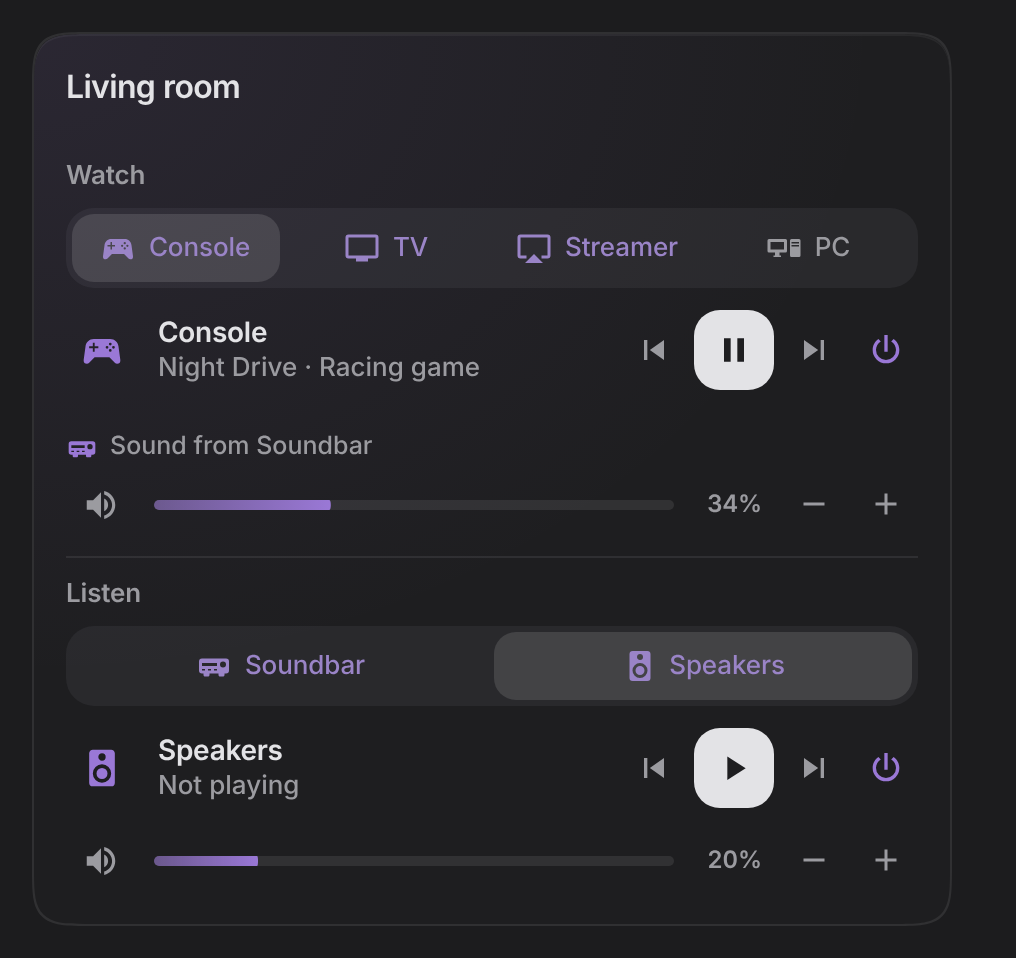
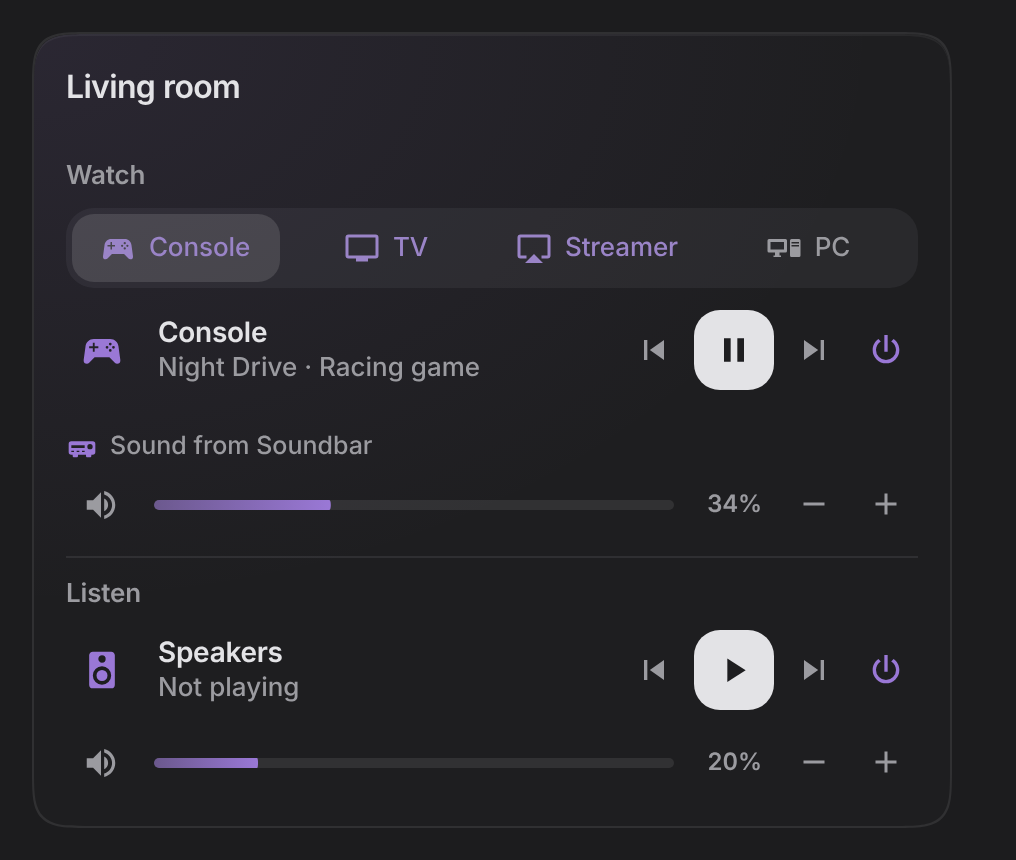
Media: the screen owns the volume; one box, one bar (0.20.2)
The TV is the volume of everything watched on it. When it sends its sound to the soundbar named in video_output (an LG says so; another TV while the soundbar is on), the bar is the soundbar's own and the soundbar leaves Listen while the TV is on. Nothing is guessed: without video_output the TV plays through itself. New screen option, for the card or a source.

diff --git a/dist/savvy-cards.js b/dist/savvy-cards.js
@@ -15331,7 +15331,7 @@ class SavvyMediaCard extends SavvyCard {
 
   _measure() {
     const slide = (box, idx, x, w) => {
-      const sel = box?.querySelectorAll(".seg")[idx || 0];
+      const sel = box?.querySelectorAll(".seg:not([hidden])")[idx || 0];
       if (!sel) return;
       const first = this._first || w.x === 0;
       x[first ? "snap" : "to"](sel.offsetLeft);
@@ -15705,7 +15705,7 @@ class SavvyMediaCard extends SavvyCard {
     el.nowVol.hidden = !owner;
     if (owner) {
       // a source that plays through another box says which, so the volume reads as that box's
-      const choice = this._soundChoice(v);
+      const screen = this._screenOf(v) || v, choice = this._soundChoice(screen);
       let via = el.nowVol.querySelector(".via");
       if (!via || (via.tagName === "BUTTON") !== !!choice) {
         via?.remove();
@@ -15718,9 +15718,11 @@ class SavvyMediaCard extends SavvyCard {
       const through = owner.entity !== v.entity;
       via.hidden = this._compact || (!through && !choice);
       if (!via.hidden) {
-        // a TV playing through itself names its output; one sending it on names the box it goes to
-        const name = through ? owner.name || shortName(this._hass, owner.entity, this._config.area) : choice.current?.label || "TV";
-        const icon = through ? this._playerIcon(owner, this._hass.states[owner.entity]) : choice.current?.icon || "mdi:speaker";
+        // the sound goes out to a soundbar: that box; the TV plays through itself and can say how: its output
+        // (TV speaker, headphones); otherwise the box whose volume this is
+        const out = owner.entity !== screen.entity, named = !out && choice?.current;
+        const name = named ? choice.current.label : owner.name || shortName(this._hass, owner.entity, this._config.area);
+        const icon = named ? choice.current.icon || "mdi:speaker" : this._playerIcon(owner, this._hass.states[owner.entity]);
         attr(via.querySelector("ha-icon"), "icon", icon);
         text(via.querySelector("span"), `Sound from ${name}`);
         if (choice) attr(via, "aria-label", `Sound output: ${choice.current?.label || "unknown"}. Change`);
@@ -15770,7 +15772,9 @@ class SavvyMediaCard extends SavvyCard {
 
   _outputs() {
     const el = this._el, c = this._config;
-    el.audioBand.hidden = !c.audio.length;
+    const busy = this._busyOutputs(), free = c.audio.filter((a) => !busy.has(a.entity));
+    this._listen = free;
+    el.audioBand.hidden = !free.length;
     const shown = this._speakerPicker();
     for (const cfg of c.audio) {
       const key = slug(cfg.entity);
@@ -15795,17 +15799,14 @@ class SavvyMediaCard extends SavvyCard {
   // Several speakers share one row, picked the way the video sources are: the pick while it's
   // sensible, else whatever is playing. One speaker needs no picker.
   _speakerPicker() {
-    const c = this._config, el = this._el, list = c.audio;
+    const el = this._el, list = this._listen || this._config.audio;
     if (!list.length) { this._spkActive = null; return null; }
     const live = list.filter((a) => ACTIVE.has(this._hass.states[a.entity]?.state));
     const sig = live.map((a) => a.entity).join("|");
     if (this._spkSig === undefined) this._spkSig = sig;
     if (sig !== this._spkSig) { this._spkSig = sig; if (sig) this._spkPicked = null; }
     if (this._spkPicked && !list.some((a) => a.entity === this._spkPicked)) this._spkPicked = null;
-    // a box that is busy being the picked source's sound comes last: Listen opens on a speaker of its own
-    const out = this._active && this._isOn(this._active) ? this._soundOutput(this._active) : null;
-    const order = out ? [...list.filter((a) => a.entity !== out), ...list.filter((a) => a.entity === out)] : list;
-    const active = (this._spkPicked && list.find((a) => a.entity === this._spkPicked)) || live[0] || order.find((a) => this._isOn(a)) || order[0];
+    const active = (this._spkPicked && list.find((a) => a.entity === this._spkPicked)) || live[0] || list.find((a) => this._isOn(a)) || list[0];
     this._spkActive = active;
     this._spkIdx = list.indexOf(active);
     el.speakers.hidden = list.length < 2;
@@ -15818,11 +15819,14 @@ class SavvyMediaCard extends SavvyCard {
           this._pressable(seg, { onTap: () => this._pickSpeaker(a), onHold: () => moreInfo(this, a.entity), haptic: null }, 0.08);
         }
         attr(seg.querySelector("ha-icon"), "icon", this._playerIcon(a, st));
-        text(seg.querySelector("span"), a.name || shortName(this._hass, a.entity, c.area));
+        text(seg.querySelector("span"), a.name || shortName(this._hass, a.entity, this._config.area));
         attr(seg, "data-sel", a === active);
         attr(seg, "data-live", this._isOn(a));
         attr(seg, "aria-pressed", a === active ? "true" : "false");
       });
+      // a speaker busy being a screen's sound is out of the picker until the screen lets it go
+      const keep = new Set(list.map((a) => a.entity));
+      for (const [id, seg] of el.speakers.__rows || []) seg.hidden = !keep.has(id);
       this._measure();
     }
     return active;
@@ -15954,10 +15958,10 @@ class SavvyMediaCard extends SavvyCard {
   }
 
   _soundMenu(anchor) {
-    const v = this._active, choice = v && this._soundChoice(v);
+    const v = this._active && (this._screenOf(this._active) || this._active), choice = v && this._soundChoice(v);
     if (!choice) return;
     this._soundPicker = this._soundPicker || new ModePicker(this, { onPick: (id, value) => {
-      const c = this._active && this._soundChoice(this._active);
+      const scr = this._active && (this._screenOf(this._active) || this._active), c = scr && this._soundChoice(scr);
       if (c && value !== c.current?.value) c.set(value);
     } });
     // the popup sits outside the card, so it gets the accent as a colour, not as the card's variable
@@ -15969,16 +15973,49 @@ class SavvyMediaCard extends SavvyCard {
   // Where a source's sound comes out; nothing declared means the box plays its own.
   _soundOutput(cfg) { return (cfg.output !== undefined ? cfg.output : this._config.video_output) || null; }
 
-  // Whose volume belongs under the picked source: the box its sound comes out of, else its own.
+  // The screen a source plays on: its own `screen`, the card's `screen`, else the one TV among the
+  // sources. The screen owns the volume of everything watched on it (an Apple TV or a console has none).
+  _screenOf(cfg) {
+    const c = this._config, id = cfg.screen || c.screen;
+    if (id) return c.video.find((v) => v.entity === id) || { entity: id };
+    const tvs = c.video.filter((v) => this._hass.states[v.entity]?.attributes.device_class === "tv");
+    return tvs.length === 1 ? tvs[0] : null;
+  }
+
+  // A screen's sound goes out to its configured output (a soundbar over eARC) when the TV says so (an
+  // LG names its sound output), or, for a TV that doesn't say, while that output is on. Never guessed:
+  // without an `output` / `video_output` in the config the TV plays through itself.
+  _externalOut(screen) {
+    const out = this._soundOutput(screen);
+    if (!out || out === screen.entity) return null;
+    const choice = this._soundChoice(screen);
+    if (choice?.current) return choice.current.own ? null : out;
+    return this._isOn({ entity: out, ...(this._config.audio.find((a) => a.entity === out) || {}) }) ? out : null;
+  }
+
+  // Whose volume belongs under the picked source: its screen's, or the soundbar's when the screen's
+  // sound goes there. One bar for one box: that soundbar leaves Listen meanwhile (_busyOutputs).
   _volumeOwner(cfg) {
     if (cfg.volume === false) return null;
-    if (this._soundChoice(cfg)?.current?.own) return cfg;      // the TV is playing through itself right now
-    const out = this._soundOutput(cfg);
-    if (!out) return cfg;
+    const screen = this._screenOf(cfg) || cfg;
+    const out = this._externalOut(screen);
+    if (!out) return screen;
     const listed = this._config.audio.find((a) => a.entity === out);
-    if (listed) return listed;      // the sound output's volume belongs with what you watch, even when it is a speaker too
+    if (listed) return listed;
     const named = this._config.video.find((v) => v.entity === out);
     return named ? { ...named } : { entity: out };
+  }
+
+  // The speakers busy being a screen's sound right now: their bar is under that screen, not in Listen.
+  _busyOutputs() {
+    const busy = new Set();
+    const screens = new Set(this._config.video.map((v) => this._screenOf(v) || v));
+    for (const screen of screens) {
+      if (!this._isOn(screen)) continue;
+      const out = this._externalOut(screen);
+      if (out) busy.add(out);
+    }
+    return busy;
   }
 
   _chips() {
@@ -16108,7 +16145,8 @@ const playerList = (name, label, helper) => ({ name, label, helper, type: "list"
     { name: "entity", label: "Player", selector: { entity: { domain: "media_player" } } },
     { type: "grid", name: "", schema: [{ name: "name", label: "Name", selector: { text: {} } }, { name: "icon", label: "Icon", selector: { icon: {} } }] },
     { name: "power", label: "Power switch", helper: "A switch that powers it, when the player can't turn itself on.", selector: { entity: { domain: ["switch", "input_boolean"] } } },
-    { name: "output", label: "Sound output", helper: "Where this source's sound comes out. Empty: it plays through itself. Overrides the card's output for all sources.", selector: { entity: { domain: "media_player" } } },
+    { name: "screen", label: "Screen", helper: "The TV this source plays on, when the room has more than one.", selector: { entity: { domain: "media_player" } } },
+    { name: "output", label: "Sound output", helper: "For a screen: the soundbar it sends its sound to. Overrides the card's output.", selector: { entity: { domain: "media_player" } } },
     { name: "sound_select", label: "Sound output list", helper: "A select entity that switches where the TV's sound goes. An LG TV needs none: its outputs are found.", selector: { entity: { domain: ["select", "input_select"] } } },
     { name: "volume", label: "Volume helper", helper: "A helper that is the real volume, when the player's own isn't.", selector: { entity: { domain: ["input_number", "number"] } } },
     { name: "artwork", label: "Artwork when", helper: "A binary sensor that says the artwork is worth showing.", selector: { entity: { domain: "binary_sensor" } } },
@@ -16120,7 +16158,8 @@ const EDITOR = defineEditor("savvy-media-card", (hass, c) => [
   S.titleLink("name"),
   playerList("video", "Video sources", "Empty: the area's players (not its speakers)."),
   playerList("audio", "Speakers", "The room's speakers: each with its transport, volume and power; two or more get a picker. Empty: the area's speakers and receivers."),
-  { name: "video_output", label: "Sound output for all sources", helper: "The speaker, receiver or soundbar every video source plays through. Its volume sits under the picked source.", selector: { entity: { domain: "media_player" } } },
+  { name: "screen", label: "Screen", helper: "The TV the sources play on: it owns their volume. Empty: the one source that is a TV.", selector: { entity: { domain: "media_player" } } },
+  { name: "video_output", label: "Screen's sound output", helper: "The soundbar or receiver the screen sends its sound to (eARC). While it does, the bar is the soundbar's and the soundbar leaves Listen. Empty: the TV plays through itself.", selector: { entity: { domain: "media_player" } } },
   S.grid(S.bool("artwork", "Show artwork", null, true), S.bool("volume_buttons", "Volume buttons", null, true)),
   S.grid(S.number("volume_step", "Volume step", 1, 25, 1, "%"), S.number("artwork_max_height", "Artwork height", 80, 800, 10, "px")),
   { type: "expandable", name: "labels", title: "Captions", schema: [S.text("video", "Video caption"), S.text("audio", "Speaker caption")] },

diff --git a/src/cards/media.js b/src/cards/media.js
@@ -313,7 +313,7 @@ class SavvyMediaCard extends SavvyCard {
 
   _measure() {
     const slide = (box, idx, x, w) => {
-      const sel = box?.querySelectorAll(".seg")[idx || 0];
+      const sel = box?.querySelectorAll(".seg:not([hidden])")[idx || 0];
       if (!sel) return;
       const first = this._first || w.x === 0;
       x[first ? "snap" : "to"](sel.offsetLeft);
@@ -687,7 +687,7 @@ class SavvyMediaCard extends SavvyCard {
     el.nowVol.hidden = !owner;
     if (owner) {
       // a source that plays through another box says which, so the volume reads as that box's
-      const choice = this._soundChoice(v);
+      const screen = this._screenOf(v) || v, choice = this._soundChoice(screen);
       let via = el.nowVol.querySelector(".via");
       if (!via || (via.tagName === "BUTTON") !== !!choice) {
         via?.remove();
@@ -700,9 +700,11 @@ class SavvyMediaCard extends SavvyCard {
       const through = owner.entity !== v.entity;
       via.hidden = this._compact || (!through && !choice);
       if (!via.hidden) {
-        // a TV playing through itself names its output; one sending it on names the box it goes to
-        const name = through ? owner.name || shortName(this._hass, owner.entity, this._config.area) : choice.current?.label || "TV";
-        const icon = through ? this._playerIcon(owner, this._hass.states[owner.entity]) : choice.current?.icon || "mdi:speaker";
+        // the sound goes out to a soundbar: that box; the TV plays through itself and can say how: its output
+        // (TV speaker, headphones); otherwise the box whose volume this is
+        const out = owner.entity !== screen.entity, named = !out && choice?.current;
+        const name = named ? choice.current.label : owner.name || shortName(this._hass, owner.entity, this._config.area);
+        const icon = named ? choice.current.icon || "mdi:speaker" : this._playerIcon(owner, this._hass.states[owner.entity]);
         attr(via.querySelector("ha-icon"), "icon", icon);
         text(via.querySelector("span"), `Sound from ${name}`);
         if (choice) attr(via, "aria-label", `Sound output: ${choice.current?.label || "unknown"}. Change`);
@@ -752,7 +754,9 @@ class SavvyMediaCard extends SavvyCard {
 
   _outputs() {
     const el = this._el, c = this._config;
-    el.audioBand.hidden = !c.audio.length;
+    const busy = this._busyOutputs(), free = c.audio.filter((a) => !busy.has(a.entity));
+    this._listen = free;
+    el.audioBand.hidden = !free.length;
     const shown = this._speakerPicker();
     for (const cfg of c.audio) {
       const key = slug(cfg.entity);
@@ -777,17 +781,14 @@ class SavvyMediaCard extends SavvyCard {
   // Several speakers share one row, picked the way the video sources are: the pick while it's
   // sensible, else whatever is playing. One speaker needs no picker.
   _speakerPicker() {
-    const c = this._config, el = this._el, list = c.audio;
+    const el = this._el, list = this._listen || this._config.audio;
     if (!list.length) { this._spkActive = null; return null; }
     const live = list.filter((a) => ACTIVE.has(this._hass.states[a.entity]?.state));
     const sig = live.map((a) => a.entity).join("|");
     if (this._spkSig === undefined) this._spkSig = sig;
     if (sig !== this._spkSig) { this._spkSig = sig; if (sig) this._spkPicked = null; }
     if (this._spkPicked && !list.some((a) => a.entity === this._spkPicked)) this._spkPicked = null;
-    // a box that is busy being the picked source's sound comes last: Listen opens on a speaker of its own
-    const out = this._active && this._isOn(this._active) ? this._soundOutput(this._active) : null;
-    const order = out ? [...list.filter((a) => a.entity !== out), ...list.filter((a) => a.entity === out)] : list;
-    const active = (this._spkPicked && list.find((a) => a.entity === this._spkPicked)) || live[0] || order.find((a) => this._isOn(a)) || order[0];
+    const active = (this._spkPicked && list.find((a) => a.entity === this._spkPicked)) || live[0] || list.find((a) => this._isOn(a)) || list[0];
     this._spkActive = active;
     this._spkIdx = list.indexOf(active);
     el.speakers.hidden = list.length < 2;
@@ -800,11 +801,14 @@ class SavvyMediaCard extends SavvyCard {
           this._pressable(seg, { onTap: () => this._pickSpeaker(a), onHold: () => moreInfo(this, a.entity), haptic: null }, 0.08);
         }
         attr(seg.querySelector("ha-icon"), "icon", this._playerIcon(a, st));
-        text(seg.querySelector("span"), a.name || shortName(this._hass, a.entity, c.area));
+        text(seg.querySelector("span"), a.name || shortName(this._hass, a.entity, this._config.area));
         attr(seg, "data-sel", a === active);
         attr(seg, "data-live", this._isOn(a));
         attr(seg, "aria-pressed", a === active ? "true" : "false");
       });
+      // a speaker busy being a screen's sound is out of the picker until the screen lets it go
+      const keep = new Set(list.map((a) => a.entity));
+      for (const [id, seg] of el.speakers.__rows || []) seg.hidden = !keep.has(id);
       this._measure();
     }
     return active;
@@ -936,10 +940,10 @@ class SavvyMediaCard extends SavvyCard {
   }
 
   _soundMenu(anchor) {
-    const v = this._active, choice = v && this._soundChoice(v);
+    const v = this._active && (this._screenOf(this._active) || this._active), choice = v && this._soundChoice(v);
     if (!choice) return;
     this._soundPicker = this._soundPicker || new ModePicker(this, { onPick: (id, value) => {
-      const c = this._active && this._soundChoice(this._active);
+      const scr = this._active && (this._screenOf(this._active) || this._active), c = scr && this._soundChoice(scr);
       if (c && value !== c.current?.value) c.set(value);
     } });
     // the popup sits outside the card, so it gets the accent as a colour, not as the card's variable
@@ -951,16 +955,49 @@ class SavvyMediaCard extends SavvyCard {
   // Where a source's sound comes out; nothing declared means the box plays its own.
   _soundOutput(cfg) { return (cfg.output !== undefined ? cfg.output : this._config.video_output) || null; }
 
-  // Whose volume belongs under the picked source: the box its sound comes out of, else its own.
+  // The screen a source plays on: its own `screen`, the card's `screen`, else the one TV among the
+  // sources. The screen owns the volume of everything watched on it (an Apple TV or a console has none).
+  _screenOf(cfg) {
+    const c = this._config, id = cfg.screen || c.screen;
+    if (id) return c.video.find((v) => v.entity === id) || { entity: id };
+    const tvs = c.video.filter((v) => this._hass.states[v.entity]?.attributes.device_class === "tv");
+    return tvs.length === 1 ? tvs[0] : null;
+  }
+
+  // A screen's sound goes out to its configured output (a soundbar over eARC) when the TV says so (an
+  // LG names its sound output), or, for a TV that doesn't say, while that output is on. Never guessed:
+  // without an `output` / `video_output` in the config the TV plays through itself.
+  _externalOut(screen) {
+    const out = this._soundOutput(screen);
+    if (!out || out === screen.entity) return null;
+    const choice = this._soundChoice(screen);
+    if (choice?.current) return choice.current.own ? null : out;
+    return this._isOn({ entity: out, ...(this._config.audio.find((a) => a.entity === out) || {}) }) ? out : null;
+  }
+
+  // Whose volume belongs under the picked source: its screen's, or the soundbar's when the screen's
+  // sound goes there. One bar for one box: that soundbar leaves Listen meanwhile (_busyOutputs).
   _volumeOwner(cfg) {
     if (cfg.volume === false) return null;
-    if (this._soundChoice(cfg)?.current?.own) return cfg;      // the TV is playing through itself right now
-    const out = this._soundOutput(cfg);
-    if (!out) return cfg;
+    const screen = this._screenOf(cfg) || cfg;
+    const out = this._externalOut(screen);
+    if (!out) return screen;
     const listed = this._config.audio.find((a) => a.entity === out);
-    if (listed) return listed;      // the sound output's volume belongs with what you watch, even when it is a speaker too
+    if (listed) return listed;
     const named = this._config.video.find((v) => v.entity === out);
     return named ? { ...named } : { entity: out };
+  }
+
+  // The speakers busy being a screen's sound right now: their bar is under that screen, not in Listen.
+  _busyOutputs() {
+    const busy = new Set();
+    const screens = new Set(this._config.video.map((v) => this._screenOf(v) || v));
+    for (const screen of screens) {
+      if (!this._isOn(screen)) continue;
+      const out = this._externalOut(screen);
+      if (out) busy.add(out);
+    }
+    return busy;
   }
 
   _chips() {
@@ -1090,7 +1127,8 @@ const playerList = (name, label, helper) => ({ name, label, helper, type: "list"
     { name: "entity", label: "Player", selector: { entity: { domain: "media_player" } } },
     { type: "grid", name: "", schema: [{ name: "name", label: "Name", selector: { text: {} } }, { name: "icon", label: "Icon", selector: { icon: {} } }] },
     { name: "power", label: "Power switch", helper: "A switch that powers it, when the player can't turn itself on.", selector: { entity: { domain: ["switch", "input_boolean"] } } },
-    { name: "output", label: "Sound output", helper: "Where this source's sound comes out. Empty: it plays through itself. Overrides the card's output for all sources.", selector: { entity: { domain: "media_player" } } },
+    { name: "screen", label: "Screen", helper: "The TV this source plays on, when the room has more than one.", selector: { entity: { domain: "media_player" } } },
+    { name: "output", label: "Sound output", helper: "For a screen: the soundbar it sends its sound to. Overrides the card's output.", selector: { entity: { domain: "media_player" } } },
     { name: "sound_select", label: "Sound output list", helper: "A select entity that switches where the TV's sound goes. An LG TV needs none: its outputs are found.", selector: { entity: { domain: ["select", "input_select"] } } },
     { name: "volume", label: "Volume helper", helper: "A helper that is the real volume, when the player's own isn't.", selector: { entity: { domain: ["input_number", "number"] } } },
     { name: "artwork", label: "Artwork when", helper: "A binary sensor that says the artwork is worth showing.", selector: { entity: { domain: "binary_sensor" } } },
@@ -1102,7 +1140,8 @@ const EDITOR = defineEditor("savvy-media-card", (hass, c) => [
   S.titleLink("name"),
   playerList("video", "Video sources", "Empty: the area's players (not its speakers)."),
   playerList("audio", "Speakers", "The room's speakers: each with its transport, volume and power; two or more get a picker. Empty: the area's speakers and receivers."),
-  { name: "video_output", label: "Sound output for all sources", helper: "The speaker, receiver or soundbar every video source plays through. Its volume sits under the picked source.", selector: { entity: { domain: "media_player" } } },
+  { name: "screen", label: "Screen", helper: "The TV the sources play on: it owns their volume. Empty: the one source that is a TV.", selector: { entity: { domain: "media_player" } } },
+  { name: "video_output", label: "Screen's sound output", helper: "The soundbar or receiver the screen sends its sound to (eARC). While it does, the bar is the soundbar's and the soundbar leaves Listen. Empty: the TV plays through itself.", selector: { entity: { domain: "media_player" } } },
   S.grid(S.bool("artwork", "Show artwork", null, true), S.bool("volume_buttons", "Volume buttons", null, true)),
   S.grid(S.number("volume_step", "Volume step", 1, 25, 1, "%"), S.number("artwork_max_height", "Artwork height", 80, 800, 10, "px")),
   { type: "expandable", name: "labels", title: "Captions", schema: [S.text("video", "Video caption"), S.text("audio", "Speaker caption")] },

diff --git a/README.md b/README.md
@@ -655,11 +655,13 @@ chips:
 
 **One card for everything that plays in a room.** Pick the video source (TV, console, streamer, PC) with
 one tap, and the card shows what it is playing and its controls. Each source can send its sound to the
-output you choose: here the TV, console and streamer play through the soundbar, and the PC through the
-speakers. The volume under the picked source is its sound output's ("Sound from Soundbar"), so you turn the TV
-up where you watch it. The speakers sit under it, each with its own volume; with more than one speaker they
-get a picker of their own, like the sources. A soundbar can be both: the TV's sound output and a speaker you
-play music on. With both kinds on the card, the bands are captioned Watch and Listen.
+output you choose. The screen (the TV) owns the volume of everything watched on it: an Apple TV or a console
+has no bar of its own. When the TV sends its sound to the soundbar you name in `video_output` (eARC), the bar
+under the picked source is the soundbar's own, with its real level ("Sound from Soundbar"); when the TV plays
+through its own speakers, it is the TV's. A soundbar that is the TV's sound leaves Listen while the TV is on,
+so one box never shows two bars; with the TV off it is back in Listen, for music on its own. Nothing is
+guessed: without `video_output` the TV plays through itself. Speakers sit under the screen, each with its own
+volume, and two or more get a picker. With both kinds on the card, the bands are captioned Watch and Listen.
 
 <picture><source media="(prefers-color-scheme: light)" srcset="docs/images/media-light.png"><img src="docs/images/media-dark.png" width="460" alt="Savvy media card with artwork"></picture>
 
@@ -678,9 +680,10 @@ presets, text to speech and an alarm clock. Volume moves only on a sideways drag
 | `area` | area | **required** (or `video` / `audio`) | Speakers and receivers become outputs; TVs and the rest become sources. |
 | `name` | string | the area's | Title. |
 | `layout` | `full` or `compact` | `full` | `compact`: one row with what is playing, its transport and the volume. |
-| `video` | list | found | The video sources in the picker (TVs, consoles, streamers, PCs): `{ entity, name, icon, power, output, volume, artwork, sound_select, sound_outputs }`. `power`: a switch that turns it on. `output`: the speaker its sound comes out of (leave empty and it plays through itself); it wins over `video_output`. `volume`: a helper that holds its real volume. `artwork`: a binary sensor that says its artwork is worth showing. `sound_select`: a select entity that switches where its sound goes (an LG TV needs none, see below). `sound_outputs`: the LG outputs to list, or `false` for none. |
+| `video` | list | found | The video sources in the picker (TVs, consoles, streamers, PCs): `{ entity, name, icon, power, screen, output, volume, artwork, sound_select, sound_outputs }`. `power`: a switch that turns it on. `screen`: the TV it plays on, in a room with two. `output`: on a screen, the soundbar it sends its sound to; it wins over `video_output`. `volume`: a helper that holds its real volume. `artwork`: a binary sensor that says its artwork is worth showing. `sound_select`: a select entity that switches where its sound goes (an LG TV needs none, see below). `sound_outputs`: the LG outputs to list, or `false` for none. |
 | `audio` | list | found | The speakers, under the sources with their own transport and volume; two or more get a picker. Same item format as `video`. |
-| `video_output` | entity | none | The one speaker, receiver or soundbar that every video source plays through, unless a source sets its own `output`. Its volume sits under the picked source, even when it is also listed in `audio`. |
+| `screen` | entity | the one TV among `video` | The TV the video sources play on. It owns their volume. A source's own `screen` wins (a room with two TVs). |
+| `video_output` | entity | none | The soundbar or receiver the screen sends its sound to (eARC). While the TV sends its sound there (an LG says so; another TV while the soundbar is on), the bar is the soundbar's, and the soundbar leaves Listen. Empty: the TV plays through itself. |
 | `presets` | chips | none | Stations and playlists. |
 | `tts` | object | none | `{ action, data, placeholder }`: a text box. `$MSG` in `data` is where the text goes. |
 | `alarm` | object | none | `{ entity, time, name }`: an alarm clock that rings here. |
@@ -719,7 +722,8 @@ video:
 audio:
   - entity: media_player.soundbar
   - entity: media_player.speakers
-video_output: media_player.soundbar    # the TV and the console play through this
+screen: media_player.tv                # the sources play on the TV: it owns their volume
+video_output: media_player.soundbar    # the TV sends its sound here (eARC): then the bar is the soundbar's
 presets:
   - entity: script.play_radio
     name: Jazz

diff --git a/CHANGELOG.md b/CHANGELOG.md
@@ -7,6 +7,11 @@
   tap), then everything active (a tripped leak or smoke alarm, presence, an open door, the rest), then
   everything idle (presence, door, the rest). With nobody in the room and the door shut, the TV that is
   playing comes first. The section title no longer keeps presence and the door at the end.
+- **Media: the screen owns the volume.** The TV is the volume of everything watched on it (an Apple TV, a
+  console). When it sends its sound to the soundbar named in `video_output` (an LG says so; another TV while the
+  soundbar is on), the bar is the soundbar's own, with its real level, and the soundbar leaves Listen while the
+  TV is on: one box, one bar. Nothing is guessed: without `video_output` the TV plays through itself. New
+  `screen` option (the card's, or a source's in a room with two TVs).
 - **Room header: how many lights are on.** A Lights chip leads its row ("3 on", or Off, dimmed); a tap lists the
   room's lights with all on and all off. `lights: false` hides it. Everything else the room has stays in the row,
   idle ones dimmed, never hidden.
